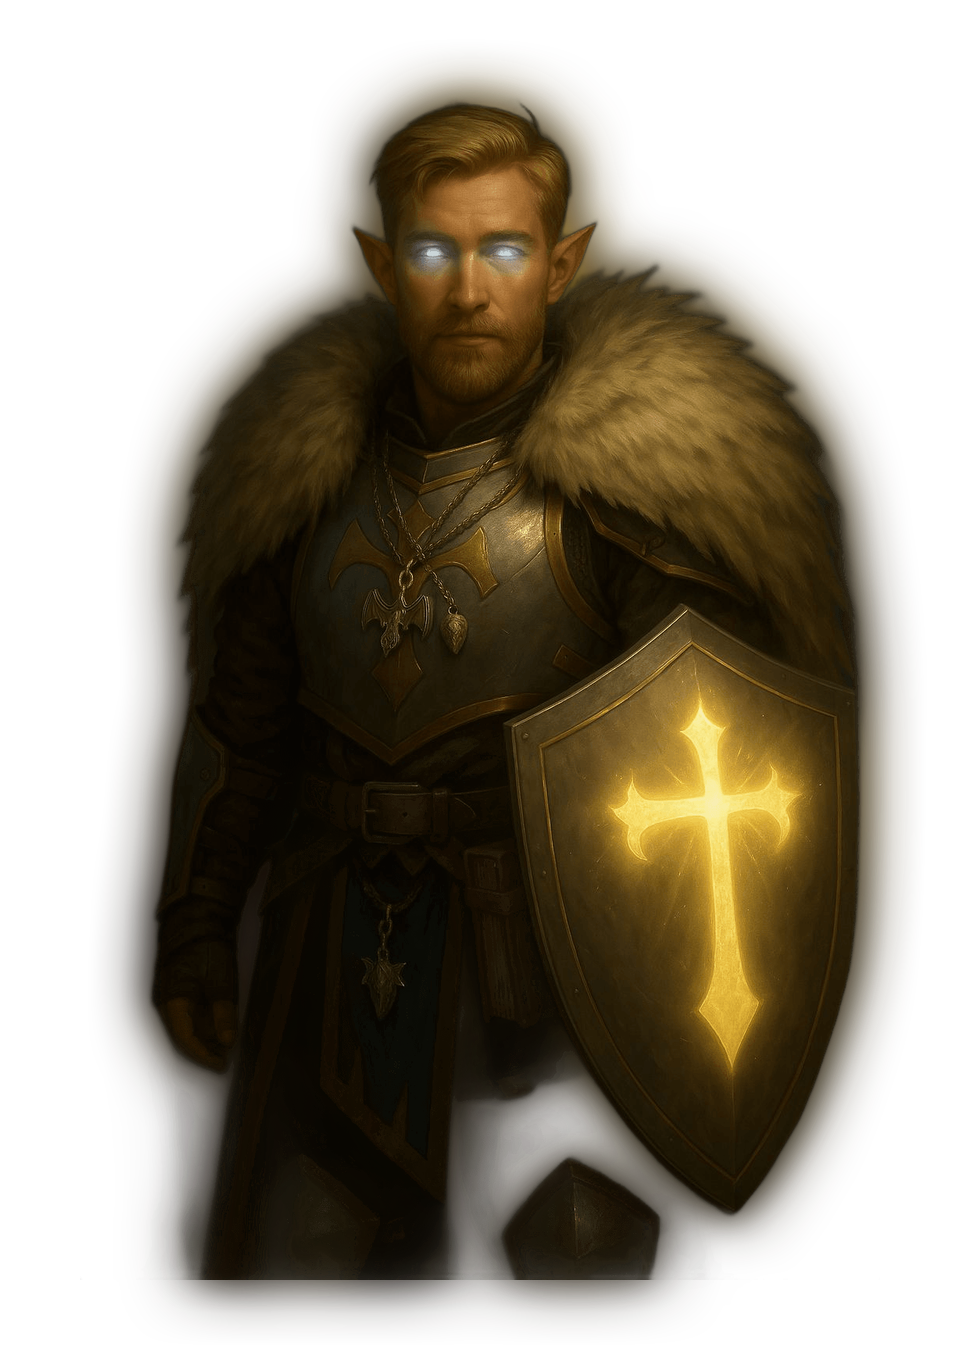
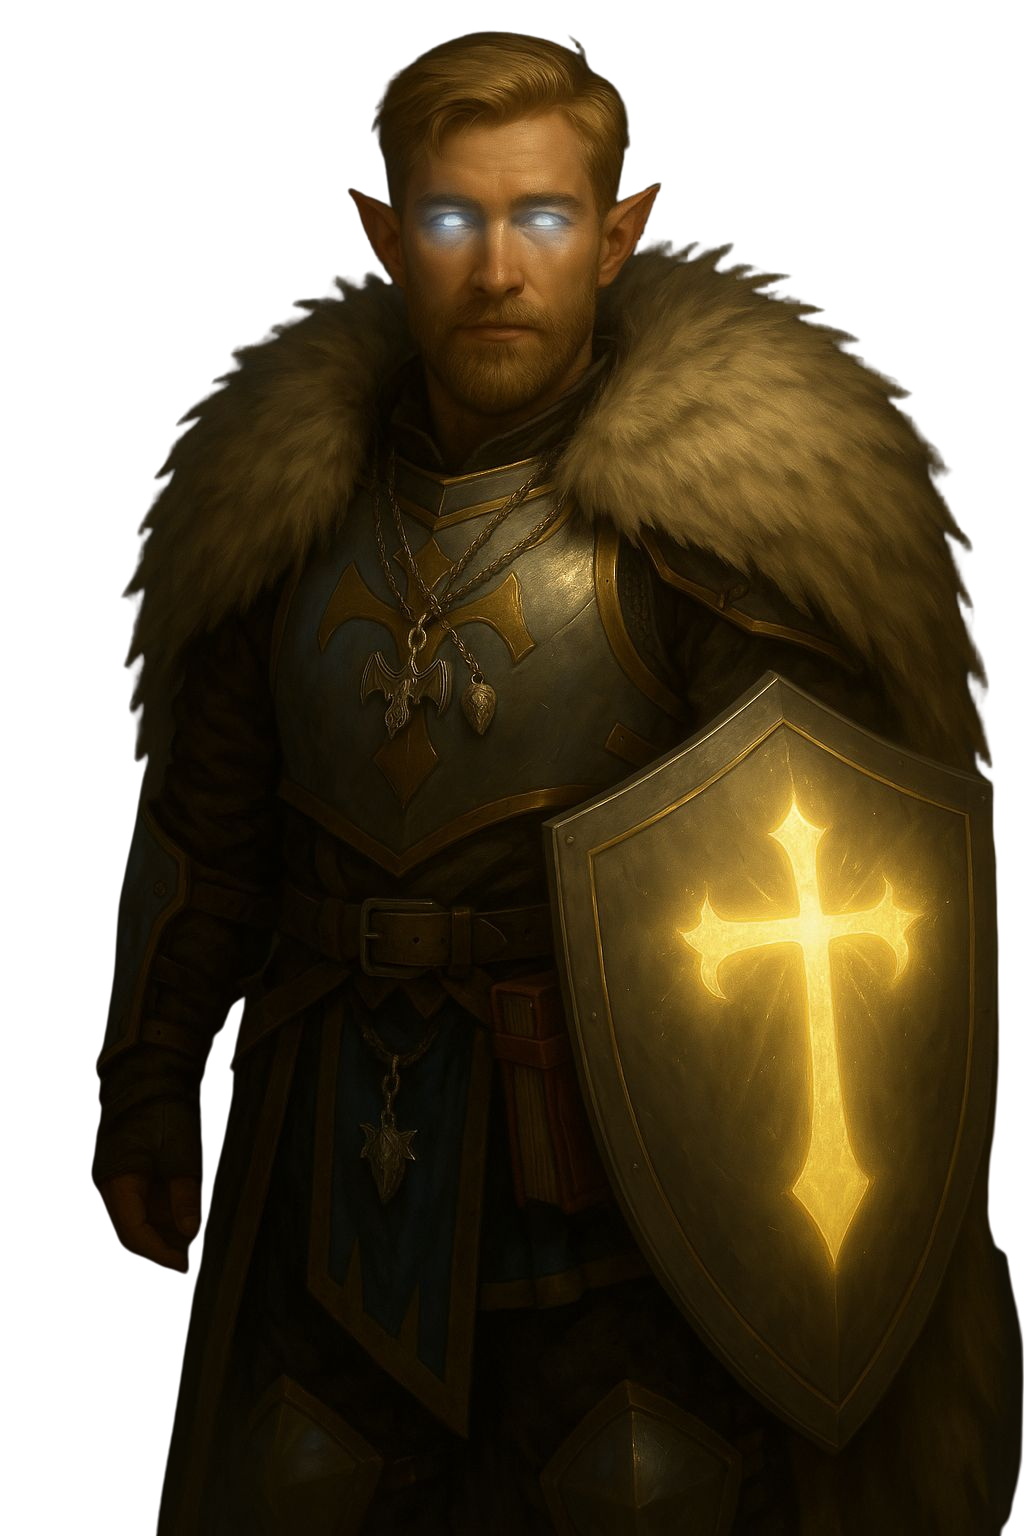
fix(blog): update Capa Barsavi portrait + add glow/hover effects
New full-body portrait (1024x1536). Added gold glow gradient,
hover scale animation, and rounded corners for both PT and EN posts.

diff --git a/components/blog/BlogPostContent.tsx b/components/blog/BlogPostContent.tsx
@@ -3870,16 +3870,16 @@ export function BlogPost13() {
 
       <H2>Quem Foi Capa Barsavi</H2>
 
-      {/* Character Portrait — transparent PNG with gold glow */}
+      {/* Character Portrait — with gold glow + hover effect */}
       <div className="my-10 flex justify-center">
-        <div className="relative">
-          <div className="absolute inset-0 bg-gradient-to-b from-gold/[0.04] via-gold/[0.10] to-gold/[0.04] rounded-full blur-[80px] scale-90" />
+        <div className="relative group">
+          <div className="absolute inset-0 bg-gradient-to-b from-gold/[0.06] via-gold/[0.14] to-gold/[0.06] rounded-full blur-[80px] scale-90 transition-all duration-500 group-hover:scale-100 group-hover:via-gold/[0.20]" />
           <Image
             src="/art/blog/capa-barsavi-portrait.png"
             alt="Capa Barsavi — Order Cleric / Divine Soul Sorcerer"
-            width={960}
-            height={1360}
-            className="relative w-[260px] sm:w-[320px] h-auto drop-shadow-[0_0_40px_rgba(212,168,83,0.25)]"
+            width={1024}
+            height={1536}
+            className="relative w-[260px] sm:w-[320px] h-auto rounded-xl drop-shadow-[0_0_40px_rgba(212,168,83,0.25)] transition-all duration-500 group-hover:drop-shadow-[0_0_60px_rgba(212,168,83,0.4)] group-hover:scale-[1.02]"
             unoptimized
           />
         </div>
@@ -4403,16 +4403,16 @@ export function BlogPost14() {
 
       <H2>Who Was Capa Barsavi</H2>
 
-      {/* Character Portrait — transparent PNG with gold glow */}
+      {/* Character Portrait — with gold glow + hover effect */}
       <div className="my-10 flex justify-center">
-        <div className="relative">
-          <div className="absolute inset-0 bg-gradient-to-b from-gold/[0.04] via-gold/[0.10] to-gold/[0.04] rounded-full blur-[80px] scale-90" />
+        <div className="relative group">
+          <div className="absolute inset-0 bg-gradient-to-b from-gold/[0.06] via-gold/[0.14] to-gold/[0.06] rounded-full blur-[80px] scale-90 transition-all duration-500 group-hover:scale-100 group-hover:via-gold/[0.20]" />
           <Image
             src="/art/blog/capa-barsavi-portrait.png"
             alt="Capa Barsavi — Order Cleric / Divine Soul Sorcerer"
-            width={960}
-            height={1360}
-            className="relative w-[260px] sm:w-[320px] h-auto drop-shadow-[0_0_40px_rgba(212,168,83,0.25)]"
+            width={1024}
+            height={1536}
+            className="relative w-[260px] sm:w-[320px] h-auto rounded-xl drop-shadow-[0_0_40px_rgba(212,168,83,0.25)] transition-all duration-500 group-hover:drop-shadow-[0_0_60px_rgba(212,168,83,0.4)] group-hover:scale-[1.02]"
             unoptimized
           />
         </div>
